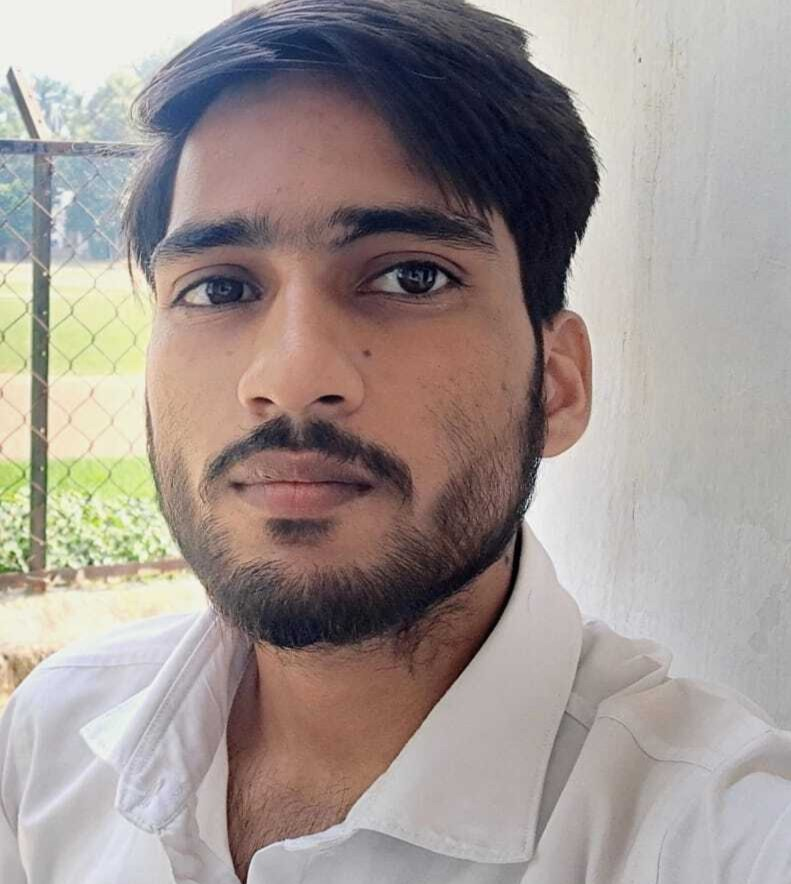
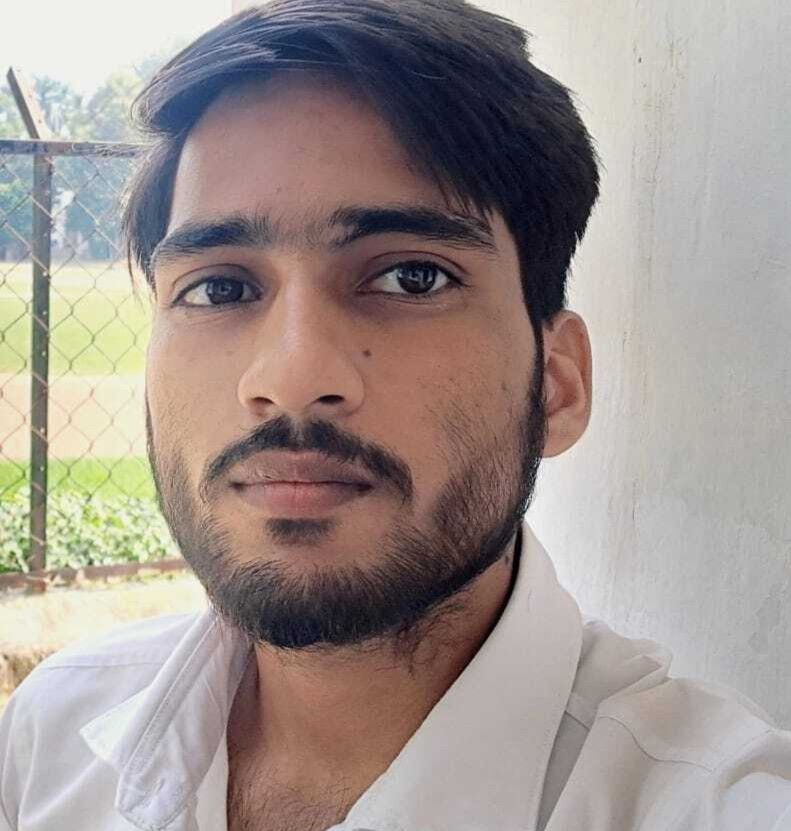
Update portfolio

diff --git a/index.html b/index.html
@@ -14,13 +14,6 @@
     <header class="header">
       <a href="#" class="logo">Portfolio</a>
 
-      <!-- <nav class="navbar">
-        <a href="#" style="--i: 1" class="active">Home</a>
-        <a href="#" style="--i: 2">About</a>
-        <a href="#" style="--i: 3">Skill</a>
-        <a href="#" style="--i: 4">Login</a>
-        <a href="#" style="--i: 5">Contact Us</a>
-      </nav> -->
     </header>
 
     <section class="home">

diff --git a/style.css b/style.css
@@ -147,7 +147,7 @@ body {
 .about-img img{
     width: 49%;
   margin-left: 77px;
-  margin-top: 92px;
+  margin-top: 80px;
   border-radius: 100%;
 }
 .about-text h2{
@@ -235,6 +235,6 @@ body {
   
  }
  .about-me{
-    margin-left: 30%;
+    /* margin-left: 30%; */
  }
 }
